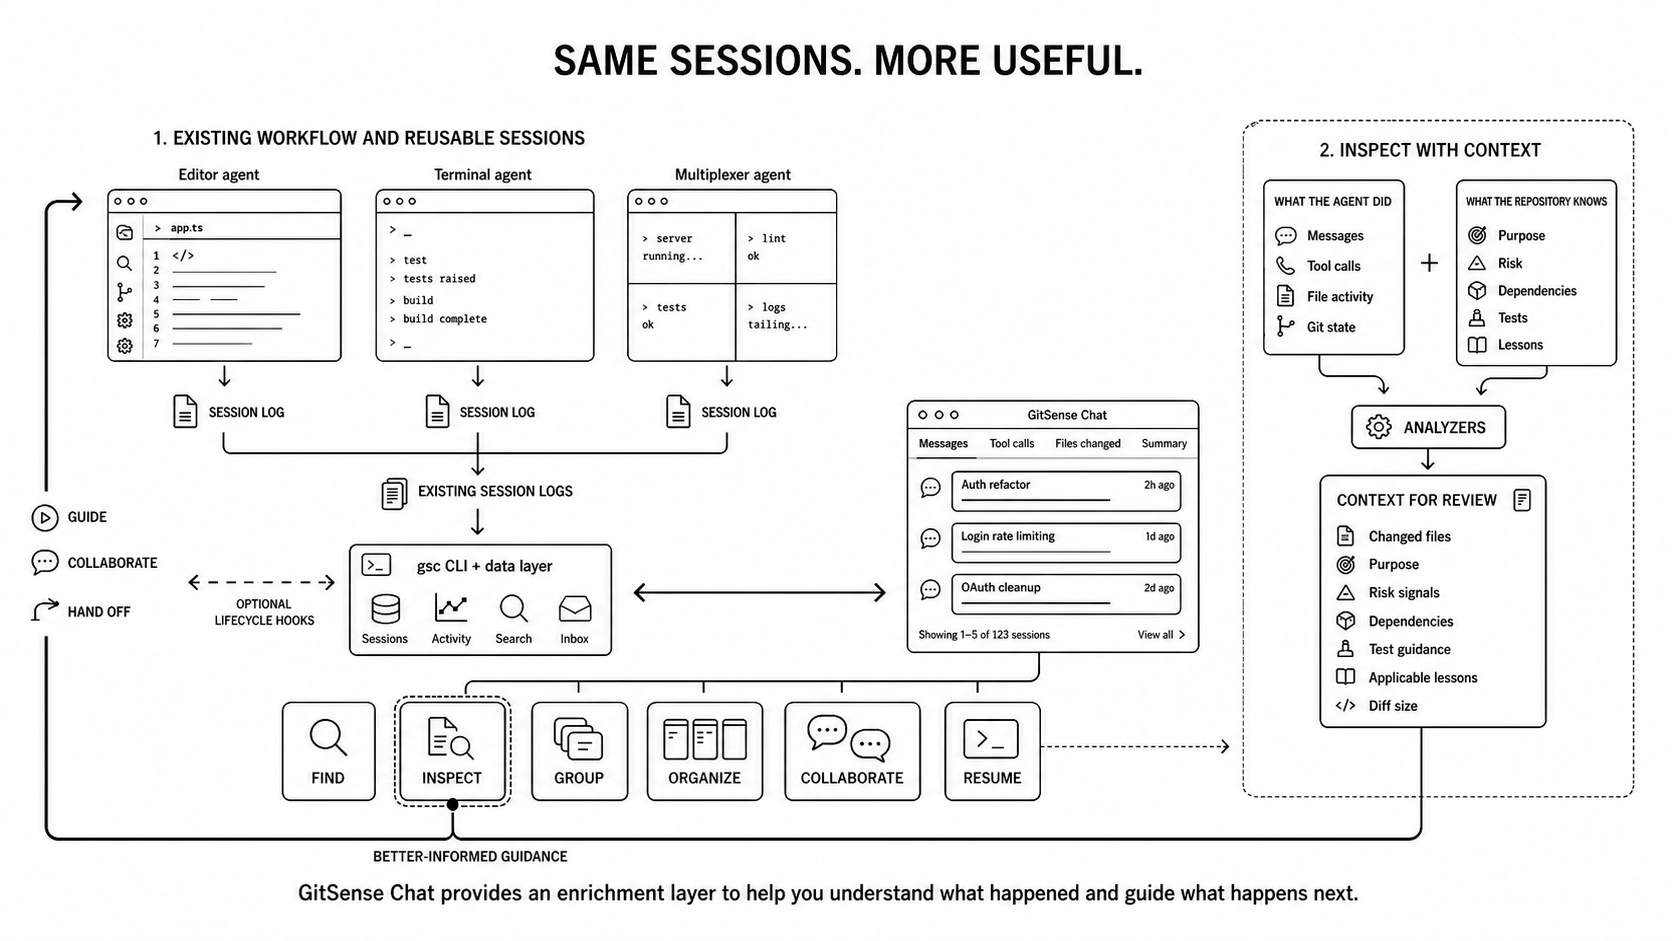
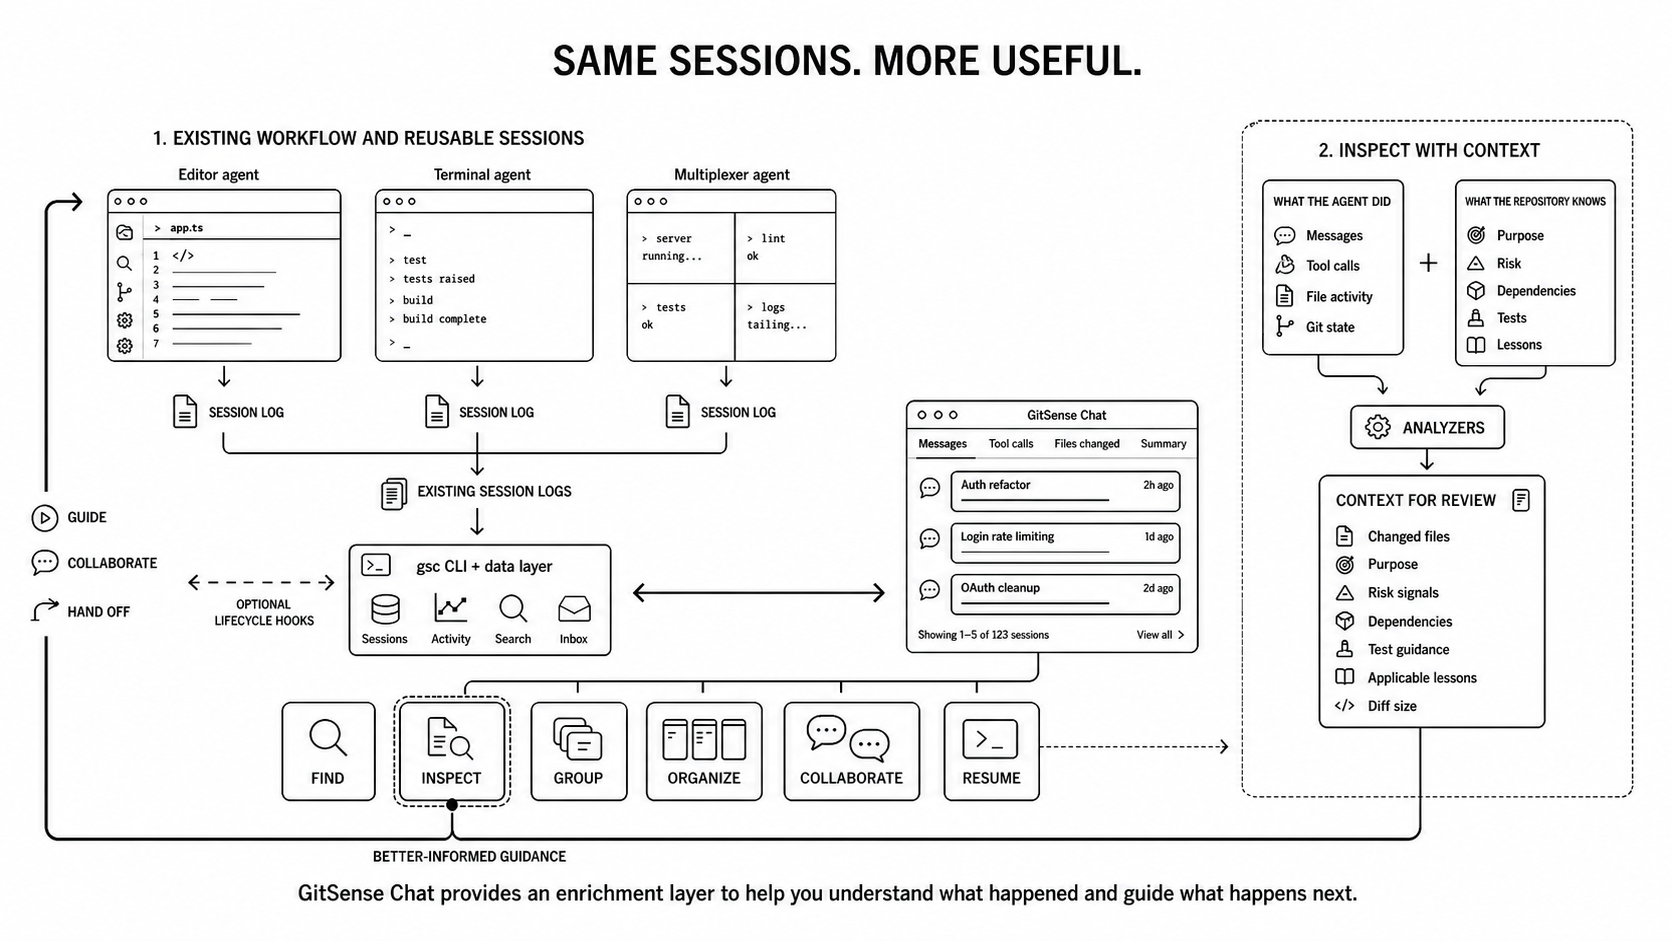
docs: present Pi as session reuse proof

diff --git a/README-v2.md b/README-v2.md
@@ -2,18 +2,19 @@
 
 **Turn session logs into actionable insights.**
 
-One prompt can quickly become a wall of messages, tool calls, file operations,
-and commands. Those conversations contain decisions, discoveries, changed files,
-and valuable context about your code, but they can be difficult to follow while
-the work is happening and even harder to revisit later. When that happens,
-useful context goes unused, and the next conversation has to rediscover it.
+One prompt can quickly become a wall of messages and tool calls: searches, file
+reads, edits, and commands. Those conversations contain decisions, discoveries,
+changed files, and valuable context about your code, but they can be difficult
+to follow while the work is happening and even harder to revisit later. When
+that happens, useful context goes unused, and the next conversation has to
+rediscover it.
 
 GitSense Chat makes that raw activity easier to inspect and organize, then adds
 relevant context to help you decide what happens next:
 
 ![GitSense Chat turns existing coding-agent session logs into sessions you can find, inspect, group, organize, enrich, collaborate through, and resume.](assets/same-sessions-more-useful.png)
 
-## Start with the session logs you already have
+## How it works
 
 GitSense Chat works quietly alongside your existing workflow. It uses the
 session logs your agents already create and is there when you want to inspect,
@@ -31,20 +32,15 @@ A session-log integration is enough for the core review and organization
 workflow. Optional hooks add live state and communication, but they are not
 required to make a completed conversation useful.
 
-## Make every session reusable
+## See it in action with Pi
 
-Keep using your editor, terminal, multiplexer, and agent runtime. GitSense Chat
-gives the sessions created there enough structure to remain useful after the
-conversation ends.
+Pi is the working proof behind this idea: existing session logs become more
+useful when they are searchable, structured, enriched, and connected back to
+the agent. The examples below show how GitSense Chat helps you find the session
+behind a change, inspect it with relevant repository context, organize related
+work, connect agents, and resume in your own tools.
 
-Finding the right session is only the first step. Analyzers can combine recorded
-activity and Git state with repository Brains and lessons, giving you context
-such as file purpose, risk signals, dependencies, test guidance, and diff size.
-That context appears beside the original evidence so you can better understand
-what happened and guide what happens next.
-
-Enrichment is context for review, not a verdict. It does not prove that an agent
-saw or followed a lesson, and it does not decide whether the code is correct.
+The added context helps focus your review; it is not a verdict on the code.
 
 | Find | Inspect | Group |
 | :--- | :--- | :--- |
